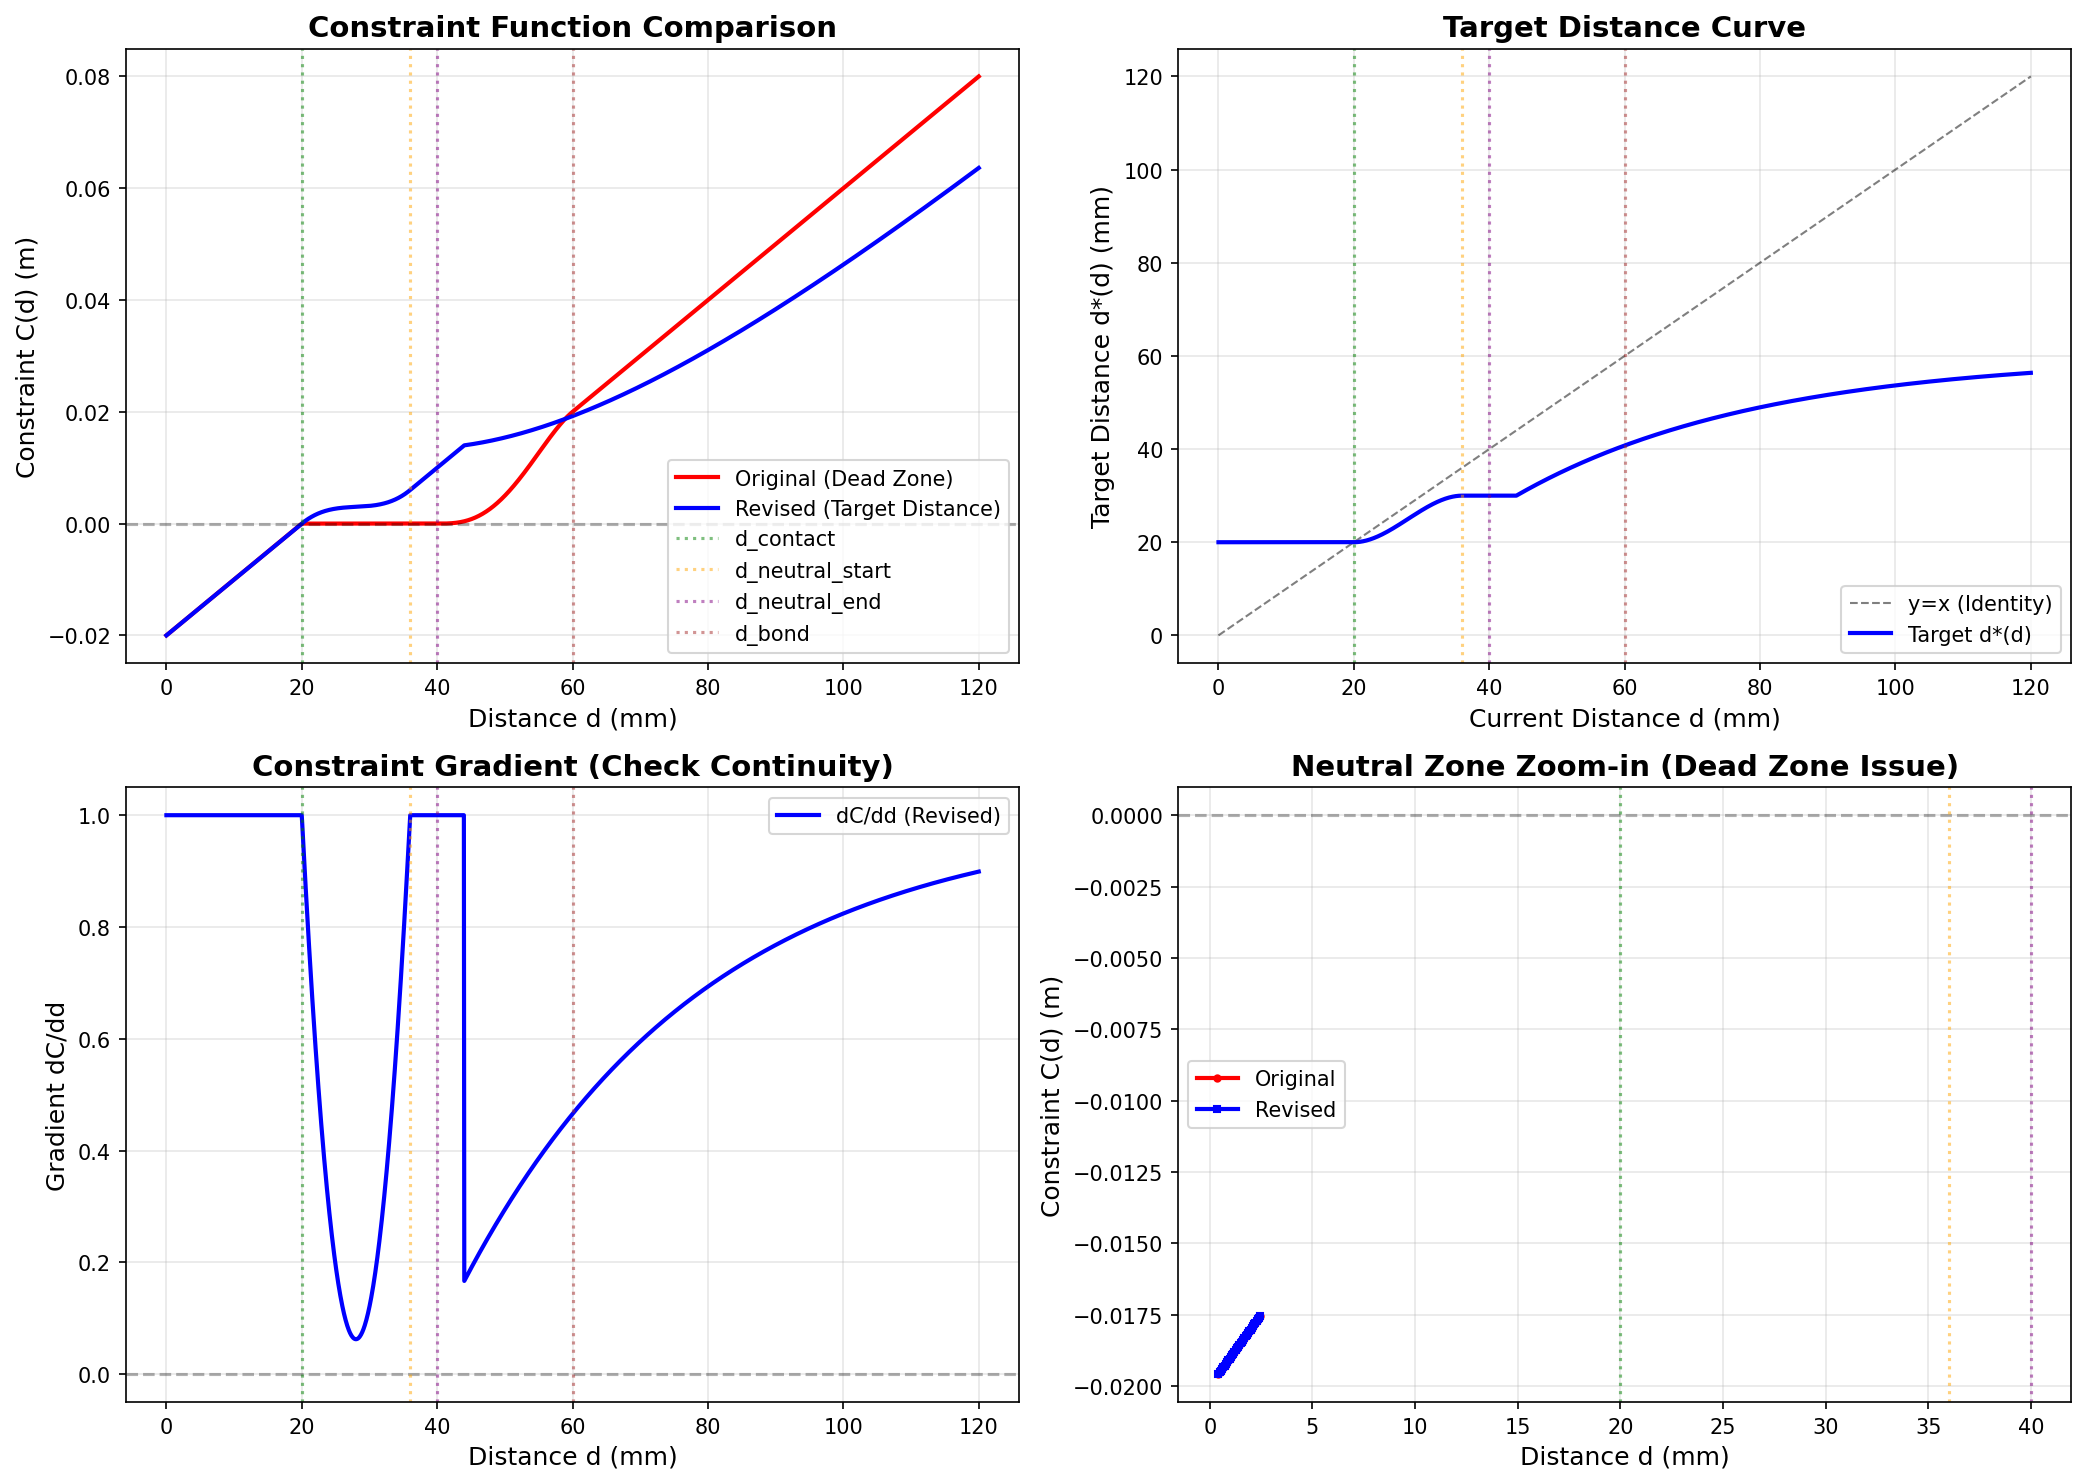
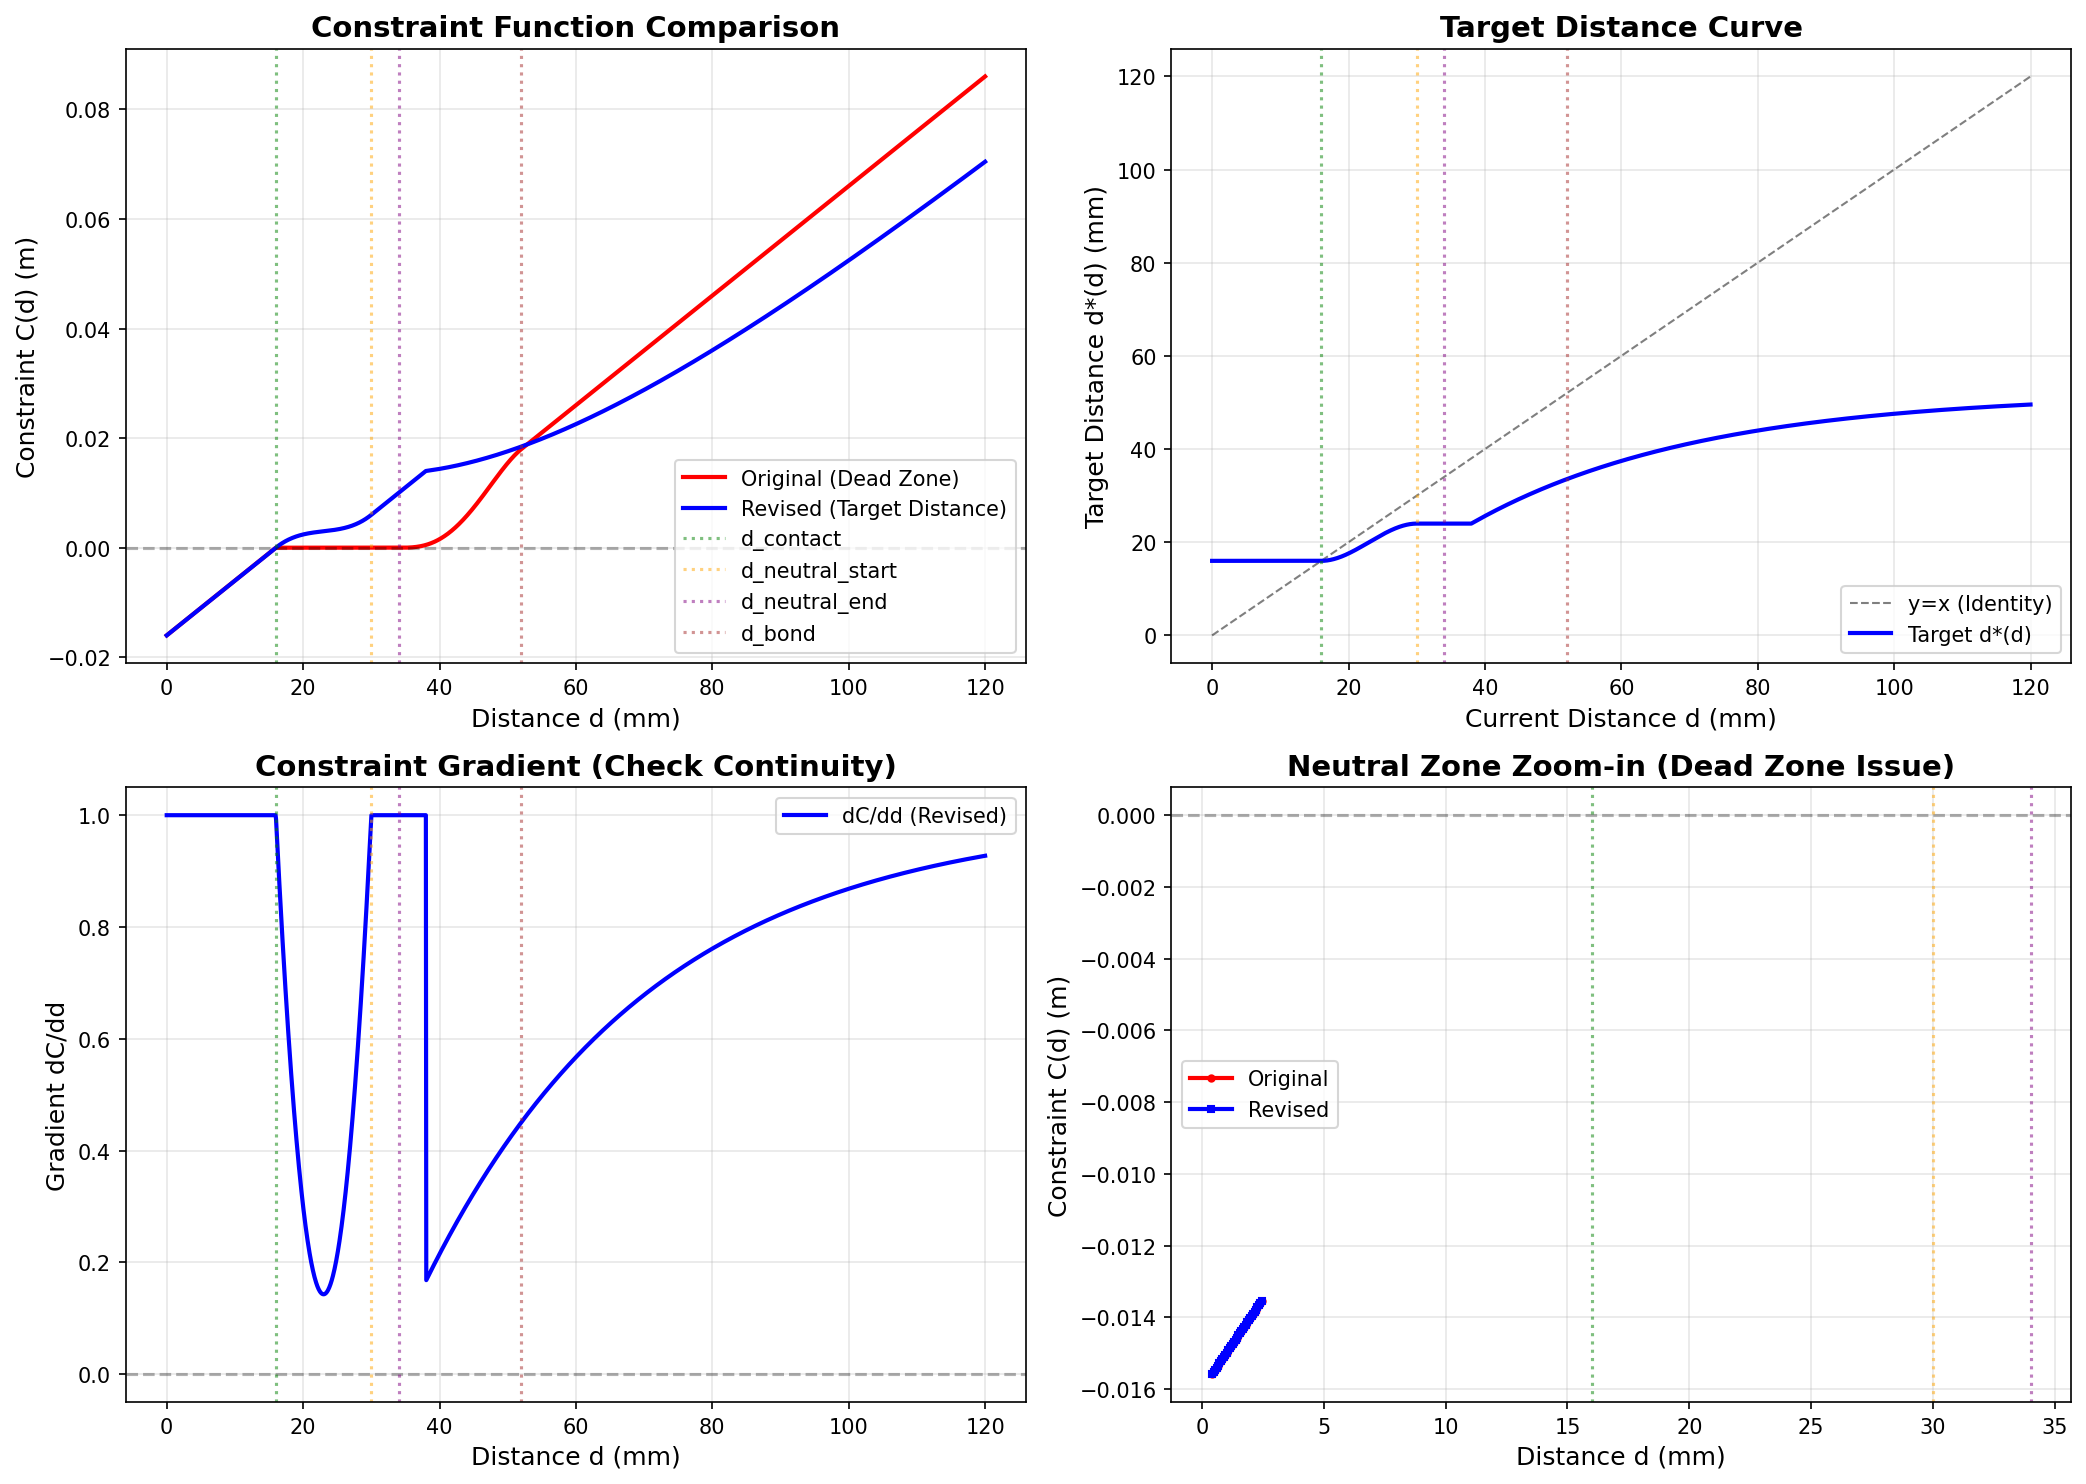
fixing the collision and adhesion bugs.

diff --git a/src/solver/constraint/UnifiedDistanceConstraint.cpp b/src/solver/constraint/UnifiedDistanceConstraint.cpp
@@ -39,6 +39,42 @@ UnifiedDistanceConstraint::UnifiedDistanceConstraint(
     _initial_distance(initial_distance),  // Use precomputed value
     _should_break(false)
 {
+    // 🔍 RUNTIME PARAMETER VERIFICATION (print first 3 constraints only)
+    static int constraint_count = 0;
+    if (constraint_count < 3) {
+        std::cout << "\n🔍 [CONSTRAINT #" << constraint_count << "] Runtime Parameters:" << std::endl;
+        std::cout << "  d_contact = " << _d_contact << " m (" << _d_contact*1000 << " mm)" << std::endl;
+        std::cout << "  d_rest = " << _d_rest << " m (" << _d_rest*1000 << " mm)" << std::endl;
+        std::cout << "  d_neutral_start = " << _d_neutral_start << " m (" << _d_neutral_start*1000 << " mm)" << std::endl;
+        std::cout << "  d_neutral_end = " << _d_neutral_end << " m (" << _d_neutral_end*1000 << " mm)" << std::endl;
+        std::cout << "  d_bond = " << _d_bond << " m (" << _d_bond*1000 << " mm)" << std::endl;
+        std::cout << "  EXP_GATE_WIDTH = " << EXP_GATE_WIDTH << " m (" << EXP_GATE_WIDTH*1000 << " mm)" << std::endl;
+        std::cout << "  EXP_SCALE_MARGIN = " << EXP_SCALE_MARGIN << std::endl;
+        std::cout << "  alpha = " << alpha << std::endl;
+        std::cout << "  break_ratio = " << _break_ratio << std::endl;
+        std::cout << "  initial_distance = " << initial_distance << " m (" << initial_distance*1000 << " mm)" << std::endl;
+        
+        // 🔍 VERTEX POSITION DEBUG - AT CREATION TIME
+        std::cout << "\n  📍 VERTEX POSITIONS AT CREATION:" << std::endl;
+        std::cout << "    tri_p1 ptr = " << (void*)tri_p1 << std::endl;
+        std::cout << "    tri_p2 ptr = " << (void*)tri_p2 << std::endl;
+        std::cout << "    tri_p3 ptr = " << (void*)tri_p3 << std::endl;
+        Eigen::Map<const Vec3r> p1_init(tri_p1);
+        Eigen::Map<const Vec3r> p2_init(tri_p2);
+        Eigen::Map<const Vec3r> p3_init(tri_p3);
+        std::cout << "    tri_p1 = " << p1_init.transpose() << std::endl;
+        std::cout << "    tri_p2 = " << p2_init.transpose() << std::endl;
+        std::cout << "    tri_p3 = " << p3_init.transpose() << std::endl;
+        std::cout << "    rigid_pt (body) = " << rigid_body_point.transpose() << std::endl;
+        const Vec3r rigid_global_init = rigid_obj->bodyToGlobal(rigid_body_point);
+        std::cout << "    rigid_pt (global) = " << rigid_global_init.transpose() << std::endl;
+        Vec3r edge1_init = p2_init - p1_init;
+        Vec3r edge2_init = p3_init - p1_init;
+        Real area_init = edge1_init.cross(edge2_init).norm() / 2.0;
+        std::cout << "    Triangle area = " << area_init << " m²" << std::endl;
+    }
+    constraint_count++;
+    
     // INITIALIZATION: Compute barycentric coordinates once at creation
     // Transform rigid body point to global coordinates at initialization
     const Vec3r rigid_point_global = rigid_obj->bodyToGlobal(rigid_body_point);
@@ -82,6 +118,27 @@ void UnifiedDistanceConstraint::evaluate(Real* C) const
     // Get rigid body point in global coordinates (transforms with rigid body motion)
     const Sim::RigidObject* rigid_obj = _rigid_bodies[0];
     const Vec3r rigid_point_global = rigid_obj->bodyToGlobal(_rigid_body_point);
+    
+    // 🔍 VERTEX POSITION DEBUG - AT EVALUATION TIME (first 3 constraints only)
+    static int eval_debug_count = 0;
+    if (eval_debug_count < 3) {
+        std::cout << "\n🔍🔍 [EVAL GEOMETRY DEBUG #" << eval_debug_count << "]" << std::endl;
+        std::cout << "  📍 VERTEX POSITIONS AT EVALUATION:" << std::endl;
+        std::cout << "    _positions[0].position_ptr = " << (void*)_positions[0].position_ptr << std::endl;
+        std::cout << "    _positions[1].position_ptr = " << (void*)_positions[1].position_ptr << std::endl;
+        std::cout << "    _positions[2].position_ptr = " << (void*)_positions[2].position_ptr << std::endl;
+        std::cout << "    tri_p1 = " << tri_p1.transpose() << std::endl;
+        std::cout << "    tri_p2 = " << tri_p2.transpose() << std::endl;
+        std::cout << "    tri_p3 = " << tri_p3.transpose() << std::endl;
+        std::cout << "    rigid_pt (body) = " << _rigid_body_point.transpose() << std::endl;
+        std::cout << "    rigid_pt (global) = " << rigid_point_global.transpose() << std::endl;
+        Vec3r edge1 = tri_p2 - tri_p1;
+        Vec3r edge2 = tri_p3 - tri_p1;
+        Real area = edge1.cross(edge2).norm() / 2.0;
+        std::cout << "    Triangle area = " << area << " m²" << std::endl;
+        std::cout << "    _cache_valid = " << _cache_valid << std::endl;
+        eval_debug_count++;
+    }
 
     // ✅ FROZEN FRAME: Only recompute geometry if cache is invalid (start of timestep)
     Real point_to_tri_distance;
@@ -119,6 +176,21 @@ void UnifiedDistanceConstraint::evaluate(Real* C) const
     
     const Real d = point_to_tri_distance;
     
+    // 🛡 PROTECTION: Check for abnormal d values before break check
+    if (!std::isfinite(d) || d > 1.0 || d < 1e-6) {  // d < 1μm is likely geometry error
+        static int abnormal_count = 0;
+        if (abnormal_count < 5) {
+            std::cout << "⚠  [ABNORMAL DISTANCE] d=" << d*1000 << "mm, using initial_distance=" 
+                      << _initial_distance*1000 << "mm as fallback" << std::endl;
+            abnormal_count++;
+        }
+        // Use initial distance as fallback instead of returning 0
+        const Real d_safe = _initial_distance;
+        const Real d_target_safe = computeTargetDistance(d_safe);
+        *C = d_safe - d_target_safe;
+        return;
+    }
+    
     // Check breaking condition: if stretched beyond threshold, mark for removal
     const Real break_threshold = _initial_distance * _break_ratio;
     if (d > break_threshold) {
@@ -137,6 +209,20 @@ void UnifiedDistanceConstraint::evaluate(Real* C) const
     
     const Real d_target = computeTargetDistance(d);
     const Real constraint_value = d - d_target;
+    
+    // 🔍 DEBUG: Print first few constraints at first evaluation
+    static int eval_count = 0;
+    static bool first_eval = true;
+    if (first_eval && eval_count < 5) {
+        std::cout << "🔍 [EVAL #" << eval_count << "] d=" << d*1000 << "mm, d*=" << d_target*1000 
+                  << "mm, C=" << constraint_value*1000 << "mm";
+        if (constraint_value > 0) std::cout << " (ATTRACTION ✅)";
+        else if (constraint_value < 0) std::cout << " (REPULSION ⚠)";
+        else std::cout << " (EQUILIBRIUM)";
+        std::cout << std::endl;
+        eval_count++;
+        if (eval_count >= 5) first_eval = false;
+    }
     
     // Compute dC/dd = 1 - dd*/dd (needed for gradient scaling)
     const Real eps = 1e-8;

diff --git a/src/simulation/Simulation.cpp b/src/simulation/Simulation.cpp
@@ -2692,26 +2692,52 @@ void Simulation::setup()
                     if (distance <= bond_distance) {
                         faces_within_range++;
                         
-                        // Create adhesion constraint
-                        // Use closest_point as the rigid body attachment point
-                        const Vec3r rigid_body_point = rigid_obj_ptr->globalToBody(closest_point);
+                        // 🔧 CRITICAL FIX: Use rigid surface point, not triangle point!
+                        // OLD (WRONG): rigid_body_point = closest_point on triangle
+                        // NEW (CORRECT): rigid_body_point = closest point on rigid surface
+                        
+                        // Find closest point on rigid surface using SDF
+                        // Use triangle centroid as query point
+                        const Vec3r tri_centroid = (tri_p1 + tri_p2 + tri_p3) / 3.0;
+                        
+                        // SDF gives: signed_distance + gradient (unit normal pointing outward)
+                        const Real signed_dist = sdf->evaluate(tri_centroid);
+                        const Vec3r grad = sdf->gradient(tri_centroid);  // unit normal
+                        
+                        // Closest point on rigid surface: move from query point along negative gradient
+                        // (gradient points outward, so -gradient points inward toward surface)
+                        const Vec3r closest_on_rigid_surface = tri_centroid - signed_dist * grad;
+                        
+                        // Convert to body coordinates
+                        const Vec3r rigid_body_point = rigid_obj_ptr->globalToBody(closest_on_rigid_surface);
+                        
+                        // Recompute initial distance using correct point pair
+                        // (rigid surface point → triangle surface point)
+                        const Real initial_distance = (closest_on_rigid_surface - closest_point).norm();
+                        
+                        // 🔍 DEBUG: Verify distance calculation consistency (first 3 constraints)
+                        static int creation_debug_count = 0;
+                        if (creation_debug_count < 3) {
+                            std::cout << "\n🔍📍 [CREATION DEBUG #" << creation_debug_count << "] FIXED VERSION" << std::endl;
+                            std::cout << "  Query: tri_centroid = " << tri_centroid.transpose() << std::endl;
+                            std::cout << "  SDF: signed_dist = " << signed_dist*1000 << " mm, grad = " << grad.transpose() << std::endl;
+                            std::cout << "  Rigid surface: closest_on_rigid_surface = " << closest_on_rigid_surface.transpose() << std::endl;
+                            std::cout << "  Triangle: closest_point = " << closest_point.transpose() << std::endl;
+                            std::cout << "  initial_distance (rigid_surf → tri_surf) = " << initial_distance*1000 << " mm" << std::endl;
+                            std::cout << "  ✅ This should match what evaluate() computes!" << std::endl;
+                            
+                            // Verify by transforming back
+                            const Vec3r rigid_attach_global = rigid_obj_ptr->bodyToGlobal(rigid_body_point);
+                            std::cout << "  Verification:" << std::endl;
+                            std::cout << "    rigid_body_point (body) = " << rigid_body_point.transpose() << std::endl;
+                            std::cout << "    rigid_body_point (global) = " << rigid_attach_global.transpose() << std::endl;
+                            std::cout << "    distance to triangle = " << (rigid_attach_global - closest_point).norm()*1000 << " mm" << std::endl;
+                            creation_debug_count++;
+                        }
                         
                         // CRITICAL FIX: Use config rest_gap as the SLACK LENGTH for breaking!
                         // This means: adhesion can stretch by (rest_gap * break_ratio) from initial position
                         // before breaking, regardless of initial distance.
-                        //
-                        // OLD BEHAVIOR (WRONG):
-                        //   effective_rest_gap = max(actual_distance, config_rest_gap)
-                        //   Breaking at: actual_distance * break_ratio
-                        //   Problem: If actual_distance=5mm, breaks at 7.5mm (only 2.5mm stretch!)
-                        //
-                        // NEW BEHAVIOR (CORRECT):
-                        //   rest_gap = config_rest_gap (fixed slack length)
-                        //   Breaking at: initial_distance + (rest_gap * break_ratio)
-                        //   Benefit: Consistent breaking behavior - always stretch by 3mm before breaking
-                        
-                        // Store initial distance for constraint creation (informational only)
-                        const Real initial_distance = distance;
                         
                         try {
                             if (interaction_type == "unified-distance") {

diff --git a/scripts/test_unified_constraint_math.py b/scripts/test_unified_constraint_math.py
@@ -14,13 +14,14 @@ import matplotlib.pyplot as plt
 # ⚠ ALL VALUES IN METERS (SI units, matching your codebase convention)
 # 根据实际几何尺度（18.75-30mm）调整的参数
 
-# CURRENT: Scaled to match actual geometry (20mm equilibrium) - WIDENED TRANSITIONS
-D_CONTACT = 0.020         # 20mm - equilibrium point (matches your min geometry ~19mm)
-D_NEUTRAL_START = 0.036   # 36mm - WIDENED for stability (was 34mm)
-D_NEUTRAL_END = 0.040     # 40mm - neutral zone end
-D_BOND = 0.060            # 60mm - far adhesion target
-D_REST = 0.030            # 30mm - mid-range target (Δd=10mm, width=16mm > 1.5×10mm ✓)
-EXP_GATE_WIDTH = 0.004    # 4mm - smooth startup gate
+# CURRENT: Matches tbone_tumor_brain_adhesion_test.yaml (optimized for tumor-bone geometry)
+D_CONTACT = 0.016         # 16mm - equilibrium point (2.75mm margin below min_distance 18.75mm)
+D_NEUTRAL_START = 0.030   # 30mm - transition start
+D_NEUTRAL_END = 0.034     # 34mm - neutral zone end
+D_BOND = 0.052            # 52mm - far adhesion target (completes before ~60mm break)
+D_REST = 0.024            # 24mm - mid-range target (aligned with constraint range)
+EXP_GATE_WIDTH = 0.004    # 4mm - smooth startup gate (matches C++ EXP_GATE_WIDTH)
+EXP_SCALE_MARGIN = 1.2    # 20% margin for stability (matches C++ EXP_SCALE_MARGIN)
 
 # ==================== 核心函数 ====================
 
@@ -107,7 +108,7 @@ def compute_target_distance(d):
     
     # Stage 2: rest → bond (C¹ exponential, active AFTER D_NEUTRAL_END)
     # Use 1.2x margin to ensure max(dd*/dd) < 1 with numerical safety
-    s = 1.2 * max(D_BOND - D_REST, 1e-12)  # Scale parameter with margin
+    s = EXP_SCALE_MARGIN * max(D_BOND - D_REST, 1e-12)  # Scale parameter with margin
     blend2 = exp_blend(D_NEUTRAL_END, s, d, EXP_GATE_WIDTH)
     
     # Combine: use stage1 result + add stage2 contribution
